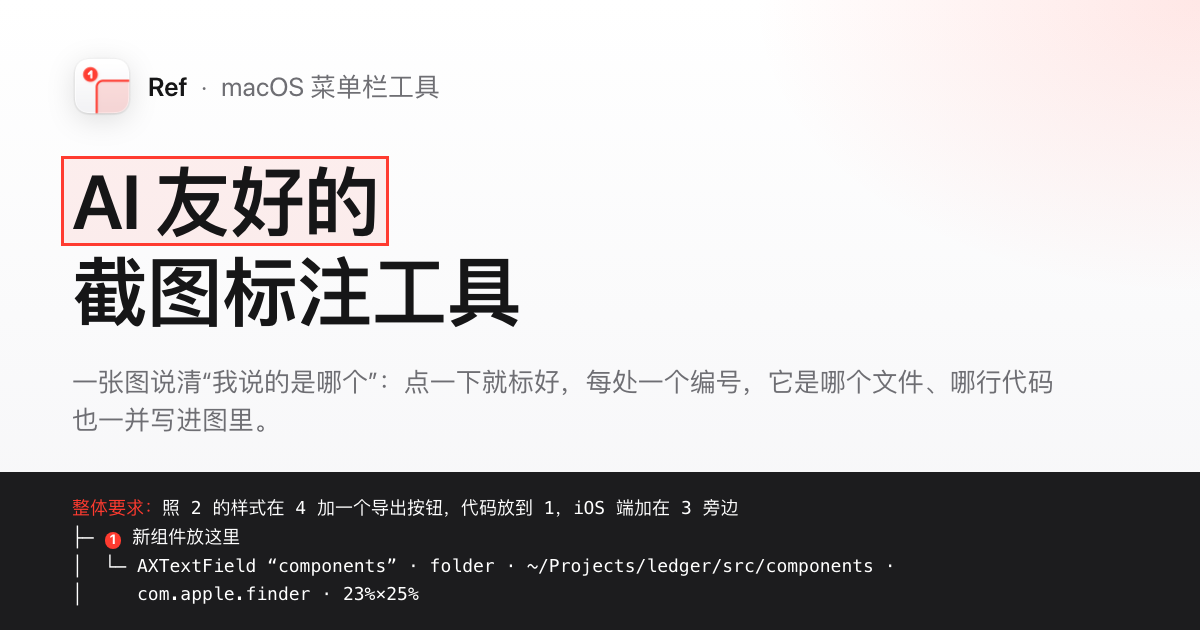
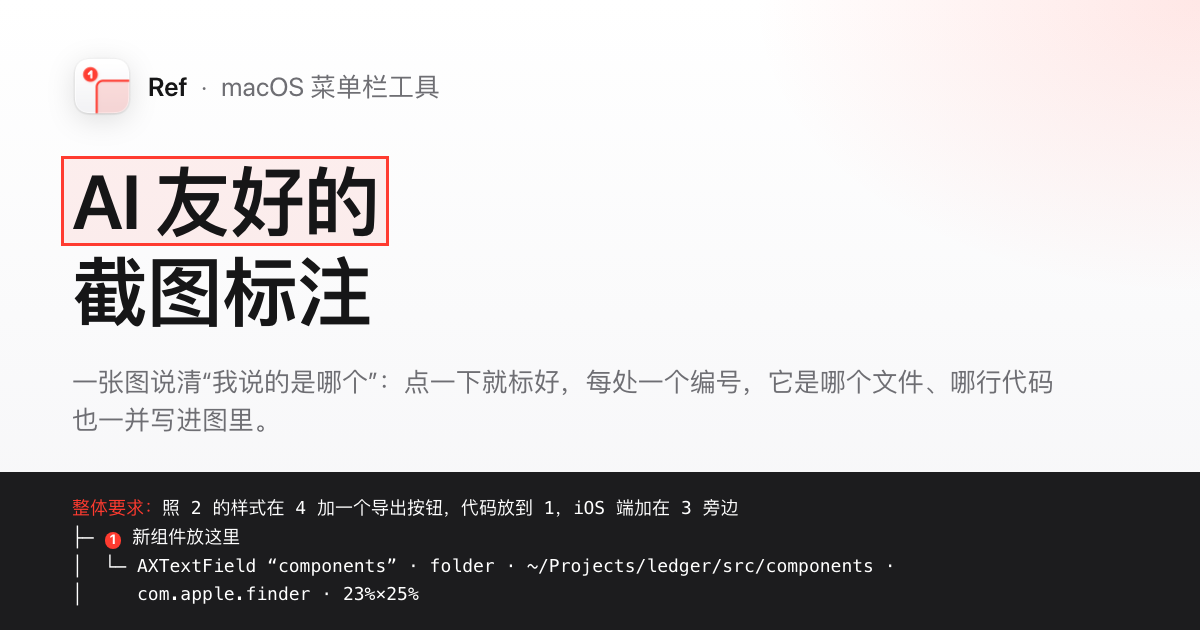
site: d315c7d80bfa (push)

Changed region(s): [[0.3083, 0.3921, 0.4317, 0.5127]]

diff --git a/index.html b/index.html
@@ -3,8 +3,8 @@
 <head>
 <meta charset="utf-8">
 <meta name="viewport" content="width=device-width, initial-scale=1, viewport-fit=cover">
-<title>Ref — AI 友好的截图标注工具 · macOS</title>
-<meta name="description" content="AI 友好的截图标注工具，住在 macOS 菜单栏里。更快：智能选框，一键选中。更准：自动编号，细节自动读出，整理成说明。粘贴给 Cursor、ChatGPT、Claude 就行。">
+<title>Ref — AI 友好的截图标注 · macOS</title>
+<meta name="description" content="AI 友好的截图标注，住在 macOS 菜单栏里。更快：智能选框，一键选中。更准：自动编号，细节自动读出，整理成说明。粘贴给 Cursor、ChatGPT、Claude 就行。">
 <meta name="color-scheme" content="light dark">
 <meta name="theme-color" media="(prefers-color-scheme: light)" content="#ffffff">
 <meta name="theme-color" media="(prefers-color-scheme: dark)" content="#161617">
@@ -20,7 +20,7 @@
 <meta property="og:site_name" content="Ref">
 <meta property="og:locale" content="zh_CN">
 <meta property="og:locale:alternate" content="en_US">
-<meta property="og:title" content="Ref — AI 友好的截图标注工具">
+<meta property="og:title" content="Ref — AI 友好的截图标注">
 <meta property="og:description" content="更快：智能选框，一键选中。更准：自动编号，细节自动读出，整理成说明。粘贴给 Cursor、ChatGPT、Claude 就行。">
 <meta property="og:url" content="https://ref.suixinapp.com/">
 <meta property="og:image" content="https://ref.suixinapp.com/assets/img/og.png">
@@ -28,7 +28,7 @@
 <meta property="og:image:height" content="630">
 <meta property="og:image:alt" content="Ref：截图上的编号标记和底部的标注说明">
 <meta name="twitter:card" content="summary_large_image">
-<meta name="twitter:title" content="Ref — AI 友好的截图标注工具">
+<meta name="twitter:title" content="Ref — AI 友好的截图标注">
 <meta name="twitter:description" content="智能选框，一键选中；自动编号，细节自动读出，整理成说明。粘贴给 Cursor、ChatGPT、Claude 就行。">
 <meta name="twitter:image" content="https://ref.suixinapp.com/assets/img/og.png">
 
@@ -48,7 +48,7 @@
   "name": "Ref",
   "operatingSystem": "macOS 26",
   "applicationCategory": "UtilitiesApplication",
-  "description": "AI 友好的截图标注工具，住在 macOS 菜单栏里。按热键，点一下你想说的东西：Ref 自动贴住元素并编号，把你的要求、元素的路径和链接一起写进图里，放进剪贴板。",
+  "description": "AI 友好的截图标注，住在 macOS 菜单栏里。按热键，点一下你想说的东西：Ref 自动贴住元素并编号，把你的要求、元素的路径和链接一起写进图里，放进剪贴板。",
   "softwareVersion": "0.3.28",
   "downloadUrl": "https://github.com/ddhjy/ref-releases/releases/latest",
   "releaseNotes": "https://github.com/ddhjy/ref-releases/releases",
@@ -89,7 +89,7 @@
 <!-- ========== Hero ========== -->
 <section class="hero" aria-labelledby="hero-title">
   <div class="container hero-copy">
-    <h1 id="hero-title"><span class="mark">AI 友好的</span><span class="nowrap">截图标注工具</span></h1>
+    <h1 id="hero-title"><span class="mark">AI 友好的</span><span class="nowrap">截图标注</span></h1>
     <ul class="lede-2">
       <li><a href="#faster"><b>更快</b><span>智能选框，一键选中</span></a></li>
       <li><a href="#precise"><b>更准</b><span>自动编号，细节自动读出，整理成说明</span></a></li>
@@ -347,7 +347,7 @@ Ref · 2880×1800 px · com.apple.Safari “发票 — Ledger” · 2026-10-26 1
             <li><i class="lb" data-n="4">④</i>右下角区域</li>
           </ul>
         </div>
-        <p class="pblock-note">每个元素都有编号，整体说明也能说得准。</p>
+        <p class="pblock-note">用编号来指示元素，可以有效降低认知负担，表达也更清晰。</p>
       </article>
 
       <article class="pblock pblock-wide">

diff --git a/en/index.html b/en/index.html
@@ -347,7 +347,7 @@ Ref · 2880×1800 px · com.apple.Safari “Invoices — Ledger” · 2026-10-26
             <li><i class="lb" data-n="4">④</i>bottom-right region</li>
           </ul>
         </div>
-        <p class="pblock-note">Every element has a number, so even the overall request is exact.</p>
+        <p class="pblock-note">Pointing at elements by number lowers the mental load and makes the request clearer.</p>
       </article>
 
       <article class="pblock pblock-wide">
